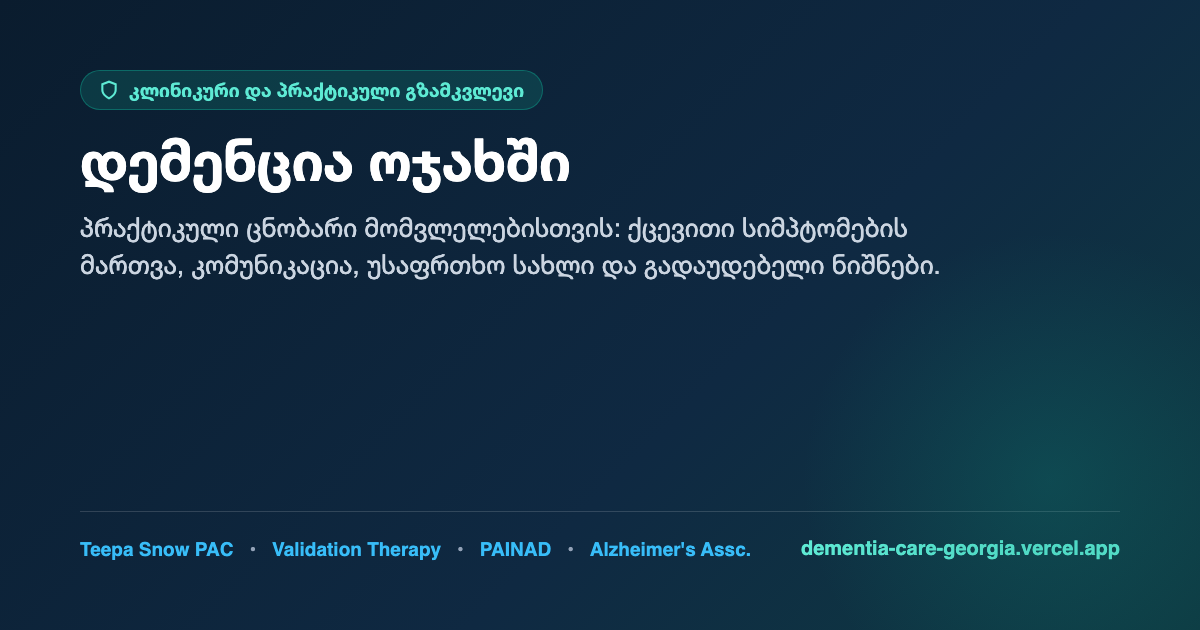
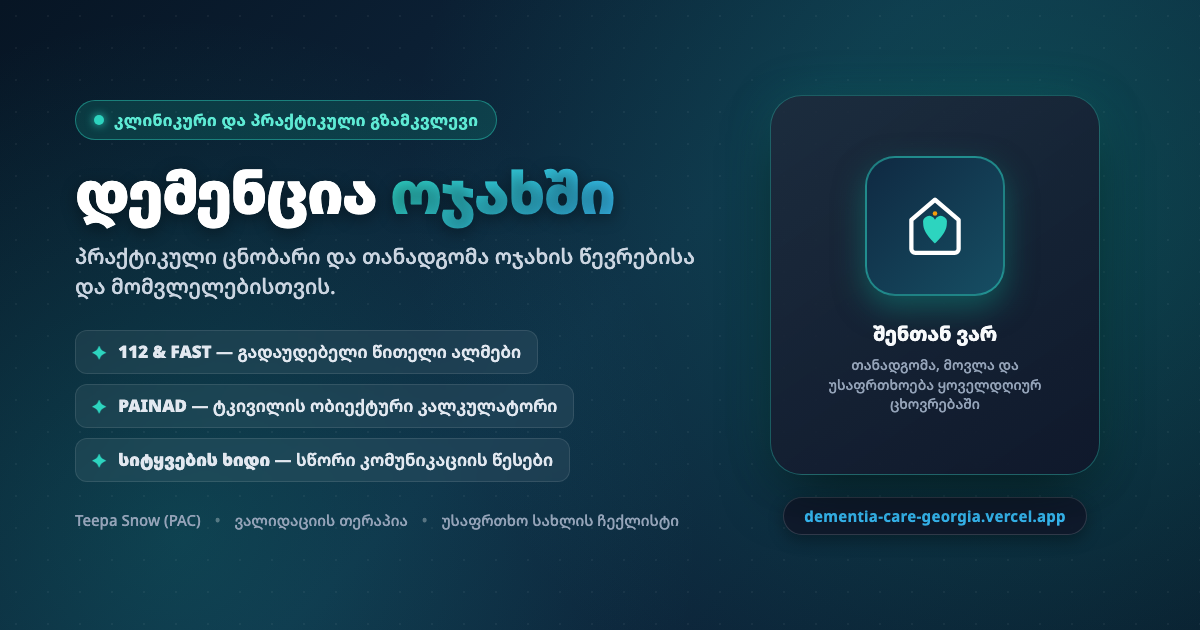
design: upgrade social share OG preview image with balanced typography, glowing care emblem and feature highlights

diff --git a/dementiis_gzamkvlevi_standalone.html b/dementiis_gzamkvlevi_standalone.html
@@ -14,7 +14,7 @@
   <meta property="og:url" content="https://dementia-care-georgia.vercel.app/">
   <meta property="og:title" content="დემენცია ოჯახში — პრაქტიკული და კლინიკური ცნობარი">
   <meta property="og:description" content="პრაქტიკული ცნობარი ოჯახებისთვის: დემენციის ქცევითი სიმპტომების მართვა, კომუნიკაცია, უსაფრთხო სახლის გარემო, PAINAD კალკულატორი და მოვლა.">
-  <meta property="og:image" content="https://dementia-care-georgia.vercel.app/og-image.png">
+  <meta property="og:image" content="https://dementia-care-georgia.vercel.app/og-image.png?v=2">
   <meta property="og:image:width" content="1200">
   <meta property="og:image:height" content="630">
   <meta property="og:locale" content="ka_GE">
@@ -24,8 +24,8 @@
   <meta name="twitter:card" content="summary_large_image">
   <meta name="twitter:url" content="https://dementia-care-georgia.vercel.app/">
   <meta name="twitter:title" content="დემენცია ოჯახში — პრაქტიკული და კლინიკური ცნობარი">
-  <meta name="twitter:description" content="პრაქტიკული ცნობარი ოჯახებისთვის: დემენციის ქცევითი სიმპტომების მართვა, კომუნიკაცია, უსაფრთხო სახლი და მოვლა.">
-  <meta name="twitter:image" content="https://dementia-care-georgia.vercel.app/og-image.png">
+  <meta name="twitter:description" content="პრაქტიკული ცნობარი ოჯახებისთვის: დემენციის ქცევითი სიმპტომების მართვა, კომუნიკაცია, უსაფრთხო სახლის გარემო, PAINAD კალკულატორი და მოვლა.">
+  <meta name="twitter:image" content="https://dementia-care-georgia.vercel.app/og-image.png?v=2">
   
   <!-- Favicons & Touch Icons -->
   <link rel="icon" type="image/svg+xml" href="/favicon.svg">

diff --git a/index.html b/index.html
@@ -14,7 +14,7 @@
   <meta property="og:url" content="https://dementia-care-georgia.vercel.app/">
   <meta property="og:title" content="დემენცია ოჯახში — პრაქტიკული და კლინიკური ცნობარი">
   <meta property="og:description" content="პრაქტიკული ცნობარი ოჯახებისთვის: დემენციის ქცევითი სიმპტომების მართვა, კომუნიკაცია, უსაფრთხო სახლის გარემო, PAINAD კალკულატორი და მოვლა.">
-  <meta property="og:image" content="https://dementia-care-georgia.vercel.app/og-image.png">
+  <meta property="og:image" content="https://dementia-care-georgia.vercel.app/og-image.png?v=2">
   <meta property="og:image:width" content="1200">
   <meta property="og:image:height" content="630">
   <meta property="og:locale" content="ka_GE">
@@ -24,8 +24,8 @@
   <meta name="twitter:card" content="summary_large_image">
   <meta name="twitter:url" content="https://dementia-care-georgia.vercel.app/">
   <meta name="twitter:title" content="დემენცია ოჯახში — პრაქტიკული და კლინიკური ცნობარი">
-  <meta name="twitter:description" content="პრაქტიკული ცნობარი ოჯახებისთვის: დემენციის ქცევითი სიმპტომების მართვა, კომუნიკაცია, უსაფრთხო სახლი და მოვლა.">
-  <meta name="twitter:image" content="https://dementia-care-georgia.vercel.app/og-image.png">
+  <meta name="twitter:description" content="პრაქტიკული ცნობარი ოჯახებისთვის: დემენციის ქცევითი სიმპტომების მართვა, კომუნიკაცია, უსაფრთხო სახლის გარემო, PAINAD კალკულატორი და მოვლა.">
+  <meta name="twitter:image" content="https://dementia-care-georgia.vercel.app/og-image.png?v=2">
   
   <!-- Favicons & Touch Icons -->
   <link rel="icon" type="image/svg+xml" href="/favicon.svg">

diff --git a/shentan_var_standalone.html b/shentan_var_standalone.html
@@ -14,7 +14,7 @@
   <meta property="og:url" content="https://dementia-care-georgia.vercel.app/">
   <meta property="og:title" content="დემენცია ოჯახში — პრაქტიკული და კლინიკური ცნობარი">
   <meta property="og:description" content="პრაქტიკული ცნობარი ოჯახებისთვის: დემენციის ქცევითი სიმპტომების მართვა, კომუნიკაცია, უსაფრთხო სახლის გარემო, PAINAD კალკულატორი და მოვლა.">
-  <meta property="og:image" content="https://dementia-care-georgia.vercel.app/og-image.png">
+  <meta property="og:image" content="https://dementia-care-georgia.vercel.app/og-image.png?v=2">
   <meta property="og:image:width" content="1200">
   <meta property="og:image:height" content="630">
   <meta property="og:locale" content="ka_GE">
@@ -24,8 +24,8 @@
   <meta name="twitter:card" content="summary_large_image">
   <meta name="twitter:url" content="https://dementia-care-georgia.vercel.app/">
   <meta name="twitter:title" content="დემენცია ოჯახში — პრაქტიკული და კლინიკური ცნობარი">
-  <meta name="twitter:description" content="პრაქტიკული ცნობარი ოჯახებისთვის: დემენციის ქცევითი სიმპტომების მართვა, კომუნიკაცია, უსაფრთხო სახლი და მოვლა.">
-  <meta name="twitter:image" content="https://dementia-care-georgia.vercel.app/og-image.png">
+  <meta name="twitter:description" content="პრაქტიკული ცნობარი ოჯახებისთვის: დემენციის ქცევითი სიმპტომების მართვა, კომუნიკაცია, უსაფრთხო სახლის გარემო, PAINAD კალკულატორი და მოვლა.">
+  <meta name="twitter:image" content="https://dementia-care-georgia.vercel.app/og-image.png?v=2">
   
   <!-- Favicons & Touch Icons -->
   <link rel="icon" type="image/svg+xml" href="/favicon.svg">
